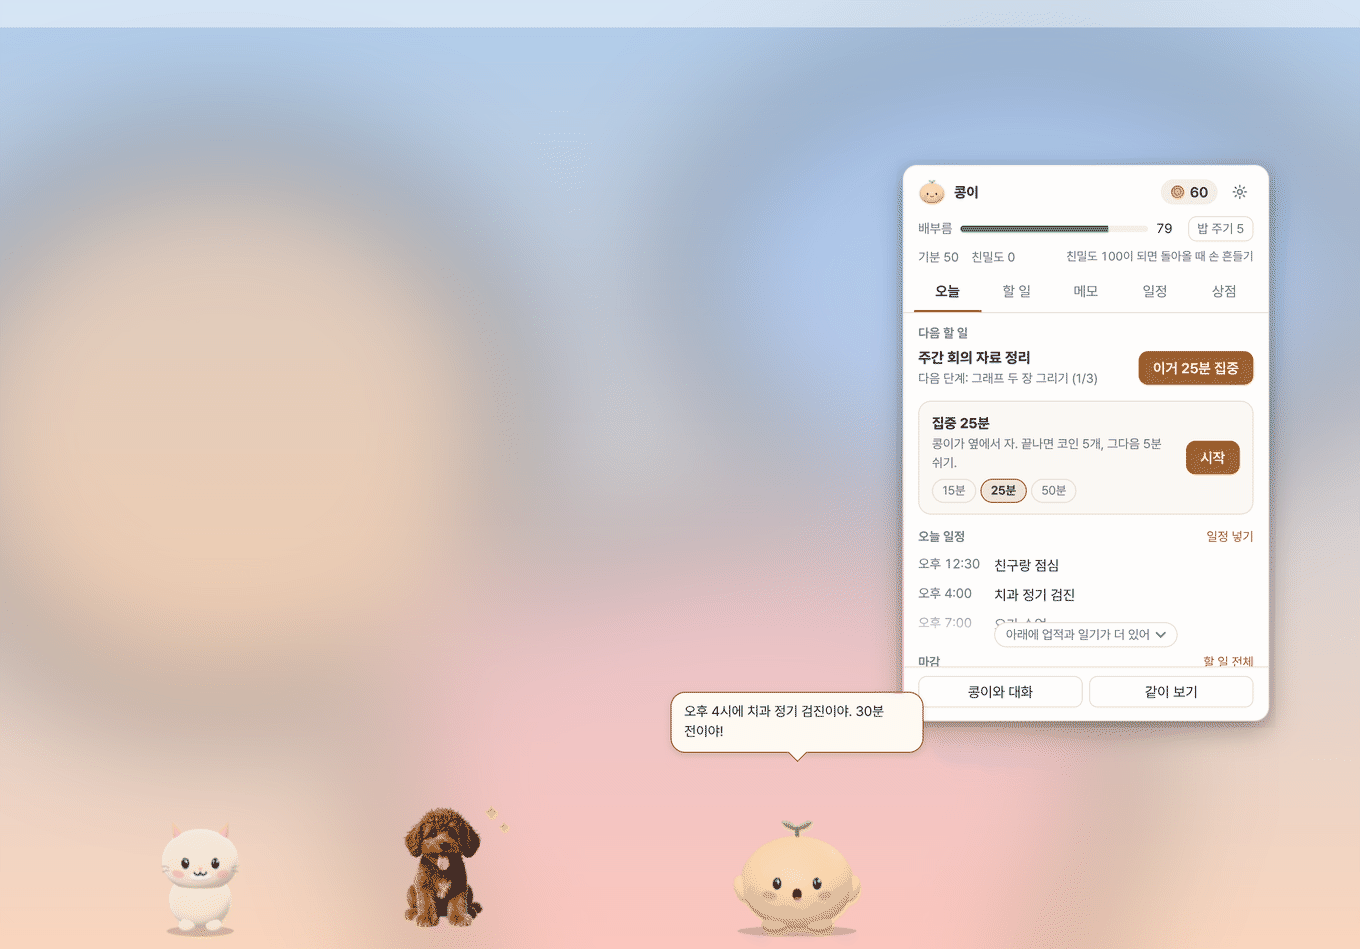
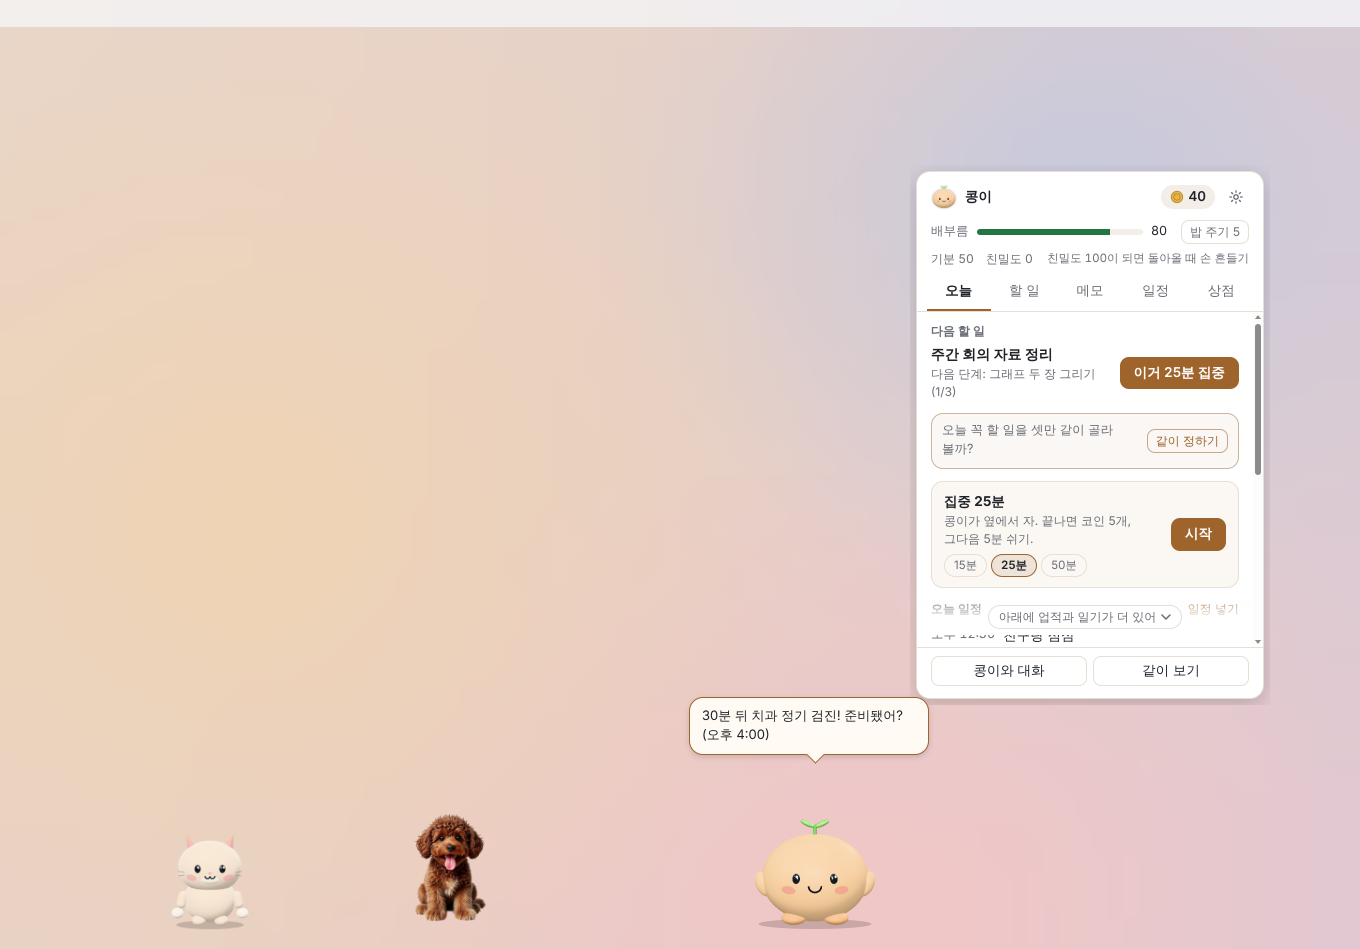
docs: 손 있는 펫으로 문서 화면 셋을 다시 찍고, 다시 찍는 스크립트를 둔다 - pets.png, pet-styles.png, desktop.png: 냥이, 멍멍이에 팔, 2D 펫에 손이 생긴 지금 앱으로 같은 구도 - scripts/dev/screens.mjs: 시험 인스턴스(JJ_NO_FOCUS, 빈 데이터 폴더, 9851/9852)를 띄워 지어낸 할 일과 일정을 넣고   CDP 로 펫(투명 배경, 2배), 말풍선, 패널을 찍어 앱 안 숨은 창에서 합친다. 가상 화면에서는 SwiftShader 로 입체를 그리고   졸음, 
Claude-Session: https://claude.ai/code/session_01EZS11RqVcC5rA27WX3hdyu

diff --git a/src/main/index.ts b/src/main/index.ts
@@ -61,6 +61,7 @@ import { createPanel } from './panel.ts';
 import { denyPermissionsByDefault } from './permissions.ts';
 import { createPetConfirm } from './pet-confirm.ts';
 import { createPetFace, trayImageOf } from './pet-face.ts';
+import { library } from './pet-library.ts';
 import { createPetLife } from './pet-life.ts';
 import { drainMemoryInbox } from './pet-memory.ts';
 import { createPetWindow } from './pet-window.ts';
@@ -1439,6 +1440,8 @@ ready
           journey,
           wear,
           weekCard,
+          // 문서 화면 찍기(scripts/dev/screens.mjs)가 그림 친구(밀크, 초코)로 바꿀 때
+          library,
         },
       });
     if (process.env.JJ_METRICS) logMetrics(Number(process.env.JJ_METRICS));

diff --git a/scripts/dev/README.md b/scripts/dev/README.md
@@ -12,6 +12,8 @@ OUT=/tmp/jj-shots node scripts/dev/settings.mjs     # 설정 창: 이름, 크기
 OUT=/tmp/jj-shots PHOTO=<사진> node scripts/dev/maker.mjs  # 사진으로 펫 만들기 전체
 ```
 
+- `screens.mjs`: 문서 화면 `docs/assets/screens/pets.png`, `pet-styles.png`, `desktop.png` 를 다시 찍는다. 앱을 직접 띄우고(빈 데이터 폴더, `JJ_NO_FOCUS=1`, 포트 9851/9852) 지어낸 할 일과 일정을 넣어 펫, 말풍선, 패널을 찍은 뒤 숨은 창에서 한 장으로 합친다. 리눅스에서는 `npm run build && xvfb-run -a -s "-screen 0 1512x982x24" node scripts/dev/screens.mjs [pets|styles|desktop]`. 끝나면 데이터 폴더를 지운다
+- `smoke-packaged.mjs`: 설치판(`electron-builder --dir`) 켜 보기 시험. CI 의 리눅스 묶음 시험이 쓴다
 - `cdp.mjs`: 메인 디버거(9229)에서 식 실행(`main`), 창 페이지 찾기(`page`), 화면 찍기, 어두운 모드. 다른 포트로 띄웠으면 `JJ_INSPECT_PORT`, `JJ_PAGE_PORT`
 - 메인 쪽 개발용 손잡이는 `globalThis.__jj` (`src/main/index.ts`, 설치한 앱에는 없다). 상태 넣기: `__jj.chat.debugSetState`, `__jj.pet.debugMoveTo`, `__jj.pet.debugScale`
 - 펫 화면 쪽 손잡이는 `window.__pet` (`setInputs`, `requestActivity`, `mood`)
